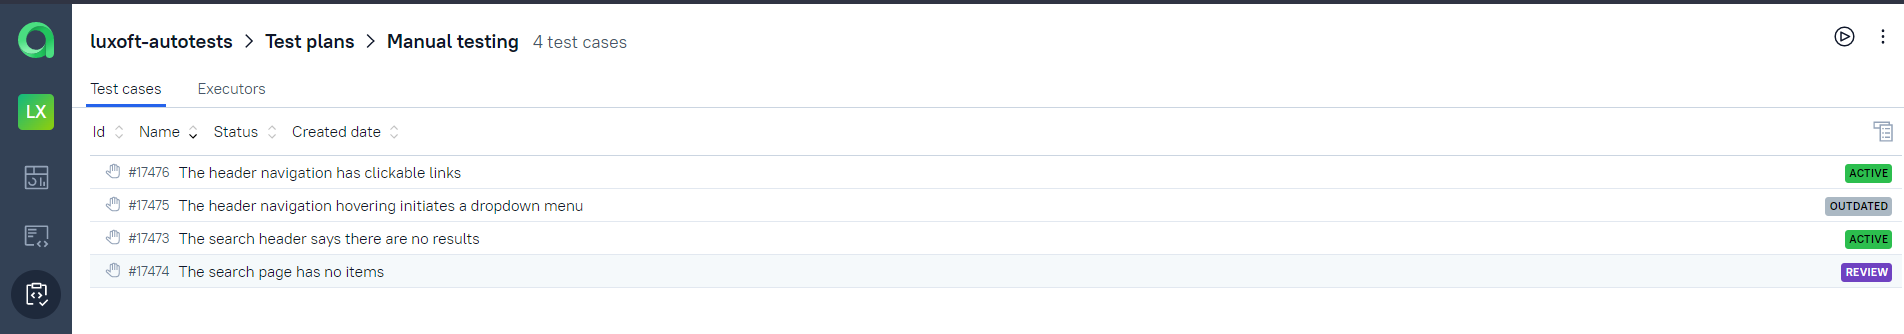
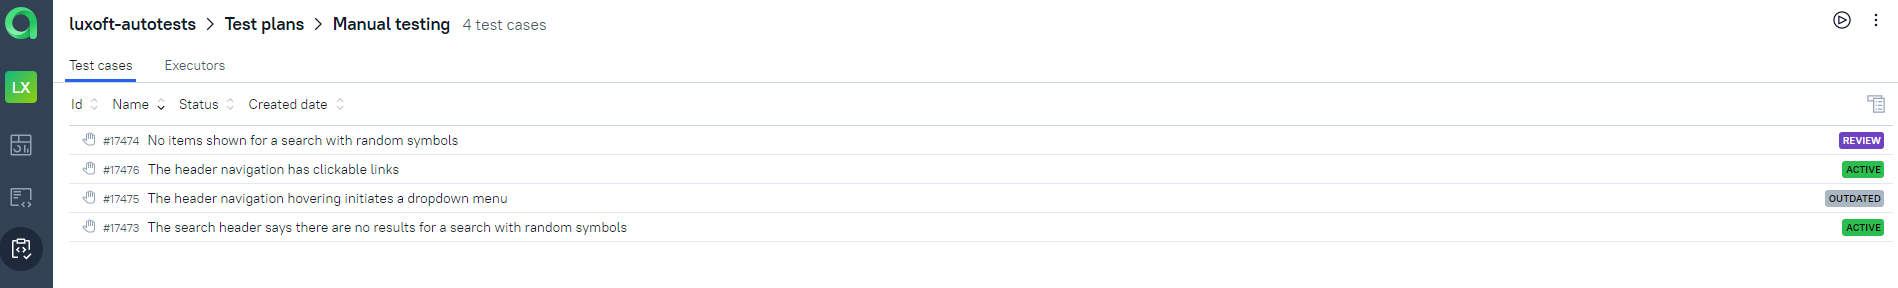
Readme update

Changed region(s): [[0.0, 0.0, 1.0, 1.0]]

diff --git a/README.md b/README.md
@@ -3,8 +3,8 @@
 
 
 ## :page_with_curl:	Contents
-+ [Introduction](#-testcases--test-cases-run)
-+ [Instruments](#Technology)
++ [Test cases run](#-testcases--test-cases-run)
++ [Instruments](#-instrumentsused--instruments-used)
 + [How to run the test with Jenkins](#HowToRun)
     + [Using console](#Console)
     + [Using Jenkins](#Jenkins)
@@ -15,12 +15,24 @@
 
 ## :testcases: Test cases run
 ### Automated test cases
-- [x] 
+- Main page
+  - [x] The main page logo visibility
+  - [x] The correct amount of services listed in the OUR SERVICES section
+  - [x] The correct amount of social media links in the footer
+- Search page
+  - [x] The search results start from the first page
+  - [x] The search header text correctness
+  - [x] The correct amount of items on the search first page
 ### Manual test cases
-- [x] 
+- Main page
+  - [x] The header navigation has clickable links
+  - [x] The header navigation hovering initiates a dropdown menu
+- Search page
+  - [x] No items shown for a search with random symbols
+  - [x] The search header says there are no results for a search with random symbols
 
 
-# <a name="Technology">Instruments used</a>
+# :instruments_used: Instruments used
 <p  align="center">
   <code><img width="5%" title="IntelliJ IDEA" src="images/IDEA-logo.svg"></code>
   <code><img width="5%" title="Java" src="images/java-logo.svg"></code>
